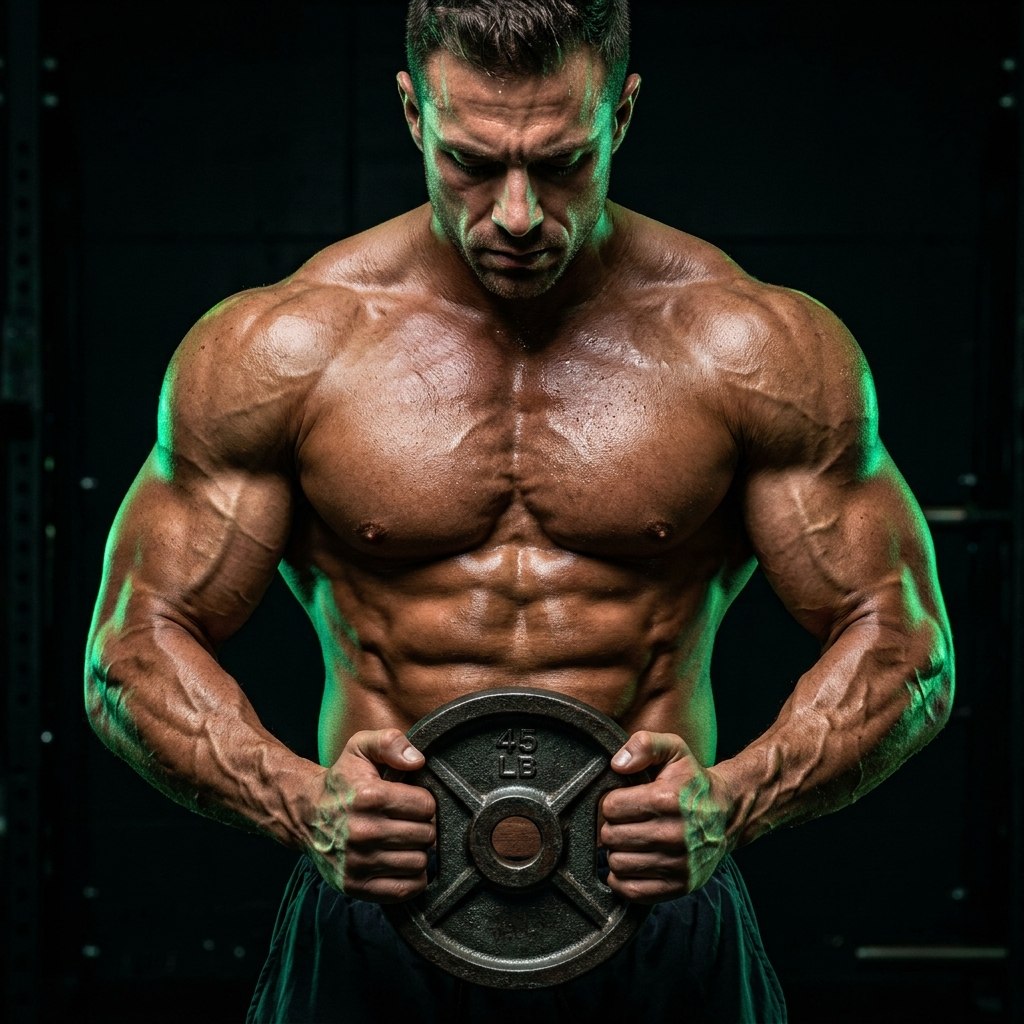
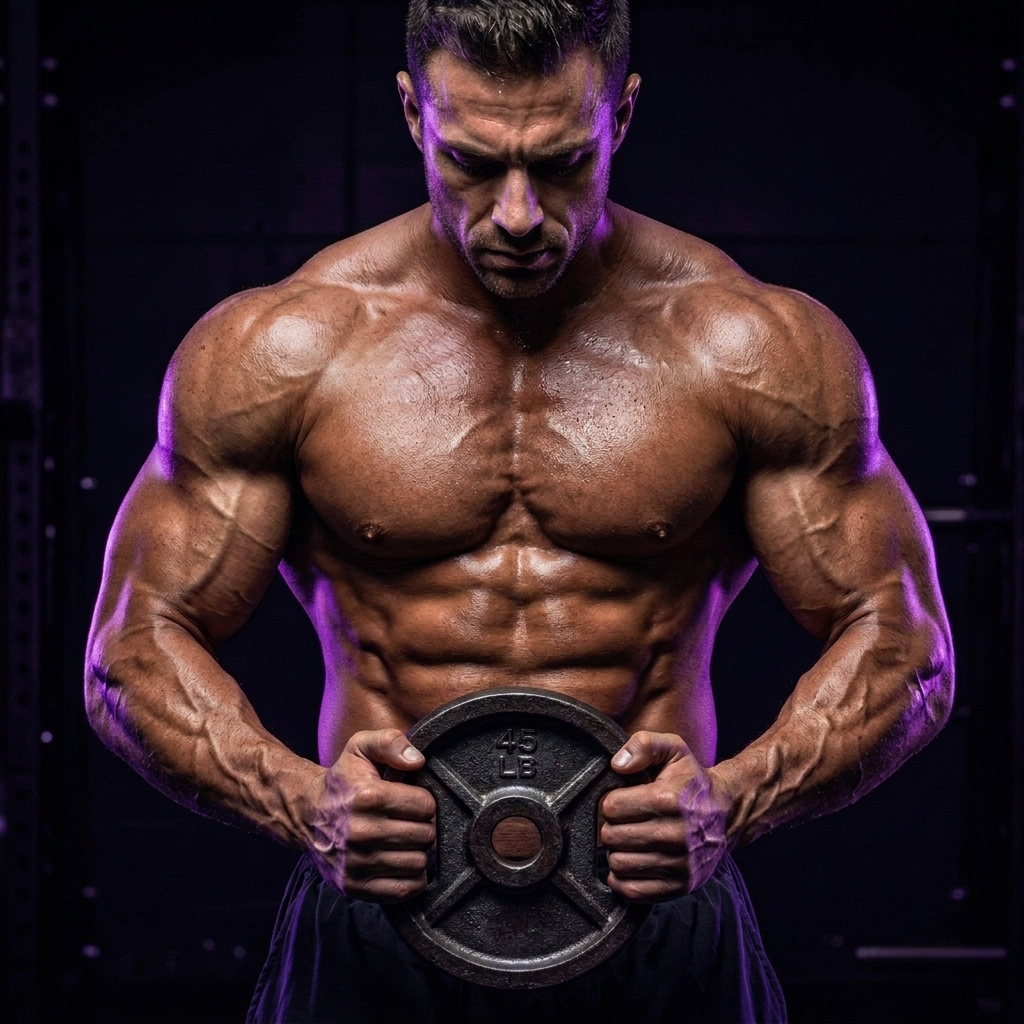
fix(hero): refine mobile hero layout, switch athlete rim lighting to brand purple, and remove mobile review proof

diff --git a/app/globals.css b/app/globals.css
@@ -631,10 +631,10 @@ h1 em, h2 em, h3 em, p em,
 .reference-hero .mint-hero-center {
   position: absolute;
   z-index: 2;
-  top: 170px;
+  top: 160px;
   bottom: 0;
   left: 50%;
-  width: min(420px, 40vw);
+  width: min(440px, 42vw);
   transform: translateX(-50%);
   display: flex;
   justify-content: center;
@@ -642,24 +642,15 @@ h1 em, h2 em, h3 em, p em,
   pointer-events: none;
 }
 
-/* Athlete with CSS filter neutralizing green rim lighting */
+/* Athlete with rich purple rim lighting */
 .reference-hero .mint-athlete {
   width: 100%;
   height: 100%;
   object-fit: contain;
   object-position: center bottom;
-  filter: saturate(0.75) contrast(1.08) hue-rotate(-15deg);
-  mask-image: radial-gradient(ellipse 95% 85% at 50% 45%, #000 65%, transparent 100%), linear-gradient(to bottom, #000 78%, transparent 100%);
-  -webkit-mask-image: radial-gradient(ellipse 95% 85% at 50% 45%, #000 65%, transparent 100%), linear-gradient(to bottom, #000 78%, transparent 100%);
-}
-
-.reference-hero .mint-hero-center:after {
-  content: '';
-  position: absolute;
-  inset: 0;
-  background: radial-gradient(ellipse at 50% 50%, transparent 45%, rgba(157, 123, 255, 0.22) 90%);
-  mix-blend-mode: color;
-  pointer-events: none;
+  filter: contrast(1.04) brightness(1.02);
+  mask-image: linear-gradient(to bottom, #000 84%, transparent 100%);
+  -webkit-mask-image: linear-gradient(to bottom, #000 84%, transparent 100%);
 }
 
 .athlete-bottom-shade {
@@ -3594,20 +3585,38 @@ h1 em, h2 em, h3 em, p em,
 
   .reference-hero,
   .home-hero {
-    min-height: 680px;
-    height: 720px;
-    padding-top: 95px;
+    min-height: 600px;
+    height: 640px;
+    padding-top: 85px;
   }
-  .reference-hero .mint-hero-title { top: 88px; }
-  .reference-hero .mint-hero-title h1 { font-size: clamp(32px, 6.2vw, 48px); }
-  .reference-hero .mint-hero-center { top: 180px; width: min(400px, 64vw); }
-  .reference-hero .stat-hours { left: calc(50% - 215px); top: 35%; }
-  .reference-hero .stat-sets { left: calc(50% - 235px); top: 56%; }
-  .reference-hero .stat-kcal { right: calc(50% - 215px); top: 35%; }
-  .reference-hero .stat-poses { right: calc(50% - 235px); top: 56%; }
-  .reference-hero .hero-stat-card { width: 92px; min-height: 98px; padding: 10px; }
-  .reference-hero .reference-proof { left: 4%; bottom: 5%; }
-  .reference-hero .reference-hero-actions { right: 4%; bottom: 5%; }
+  .reference-hero .mint-hero-title { top: 80px; }
+  .reference-hero .mint-hero-title h1 { font-size: clamp(30px, 6vw, 44px); }
+  .reference-hero .mint-hero-center {
+    top: 145px;
+    bottom: auto;
+    width: min(380px, 62vw);
+    height: min(380px, 62vw);
+    display: flex;
+    justify-content: center;
+    align-items: flex-start;
+  }
+  .reference-hero .mint-athlete {
+    object-position: center top;
+  }
+  .reference-hero .stat-hours { left: calc(50% - 215px); top: 32%; }
+  .reference-hero .stat-sets { left: calc(50% - 235px); top: 54%; }
+  .reference-hero .stat-kcal { right: calc(50% - 215px); top: 32%; }
+  .reference-hero .stat-poses { right: calc(50% - 235px); top: 54%; }
+  .reference-hero .hero-stat-card { width: 90px; min-height: 94px; padding: 10px; }
+  .reference-hero .reference-proof { display: none !important; }
+  .reference-hero .reference-hero-actions {
+    position: absolute;
+    left: 50%;
+    transform: translateX(-50%);
+    bottom: 22px;
+    right: auto;
+    z-index: 5;
+  }
 
   .social-bar-inner { gap: 16px; flex-wrap: wrap; justify-content: center; }
   .social-label { font-size: 10px; }
@@ -3655,28 +3664,60 @@ h1 em, h2 em, h3 em, p em,
 
   .reference-hero,
   .home-hero {
-    min-height: 720px;
-    height: 750px;
-    padding: 85px 16px 75px;
+    min-height: 560px;
+    height: clamp(560px, 86vh, 620px);
+    padding: 75px 12px 18px;
   }
-  .reference-hero .mint-hero-title { top: 80px; padding: 0 10px; }
-  .reference-hero .mint-hero-title h1 { font-size: clamp(30px, 8vw, 40px); line-height: 1.05; }
-  .reference-hero .mint-hero-center { top: 200px; width: min(340px, 88vw); }
-  .reference-hero .hero-stat-card { width: 78px; min-height: 84px; padding: 8px; border-radius: 13px; }
-  .reference-hero .hero-stat-card .stat-icon { width: 22px; height: 22px; margin-bottom: 2px; }
-  .reference-hero .hero-stat-card .stat-icon svg { width: 16px; height: 16px; }
+  .reference-hero .mint-hero-title {
+    top: 72px;
+    padding: 0 8px;
+    width: 100%;
+  }
+  .reference-hero .mint-hero-title h1 {
+    font-size: clamp(26px, 7.2vw, 36px);
+    line-height: 1.06;
+  }
+  .reference-hero .mint-hero-center {
+    top: 150px;
+    bottom: auto;
+    width: min(340px, 86vw);
+    height: min(340px, 86vw);
+    display: flex;
+    justify-content: center;
+    align-items: flex-start;
+  }
+  .reference-hero .mint-athlete {
+    object-position: center top;
+  }
+  .reference-hero .hero-stat-card {
+    width: 76px;
+    min-height: 80px;
+    padding: 7px 6px;
+    border-radius: 12px;
+  }
+  .reference-hero .hero-stat-card .stat-icon { width: 20px; height: 20px; margin-bottom: 2px; }
+  .reference-hero .hero-stat-card .stat-icon svg { width: 15px; height: 15px; }
   .reference-hero .hero-stat-card small { font-size: 8px; }
-  .reference-hero .hero-stat-card strong { font-size: 18px; }
-  .reference-hero .stat-hours { left: 4%; top: 36%; }
-  .reference-hero .stat-sets { left: 4%; top: 56%; }
-  .reference-hero .stat-kcal { right: 4%; top: 36%; }
-  .reference-hero .stat-poses { right: 4%; top: 56%; }
-  .reference-hero .reference-proof { left: 16px; bottom: 3%; gap: 8px; }
-  .reference-hero .reference-avatars img { width: 32px; height: 32px; margin-left: -10px; }
-  .reference-hero .reference-proof-text strong { font-size: 16px; }
-  .reference-hero .reference-proof-text span { font-size: 10px; }
-  .reference-hero .reference-hero-actions { right: 16px; bottom: 3%; }
-  .reference-hero .reference-start-button { height: 40px; padding: 0 16px; font-size: 11px; }
+  .reference-hero .hero-stat-card strong { font-size: 17px; }
+  .reference-hero .stat-hours { left: 8px; top: 175px; transform: rotate(-3deg); }
+  .reference-hero .stat-sets { left: 8px; top: 295px; transform: rotate(-3deg); }
+  .reference-hero .stat-kcal { right: 8px; top: 175px; transform: rotate(3deg); }
+  .reference-hero .stat-poses { right: 8px; top: 295px; transform: rotate(3deg); }
+  .reference-hero .reference-proof { display: none !important; }
+  .reference-hero .reference-hero-actions {
+    position: absolute;
+    left: 50%;
+    transform: translateX(-50%);
+    bottom: 18px;
+    right: auto;
+    z-index: 5;
+  }
+  .reference-hero .reference-start-button {
+    height: 42px;
+    padding: 0 20px;
+    font-size: 11px;
+    letter-spacing: 0.08em;
+  }
 
   .social-bar-inner { gap: 14px; padding: 0 12px; }
   .social-label { display: none; }
